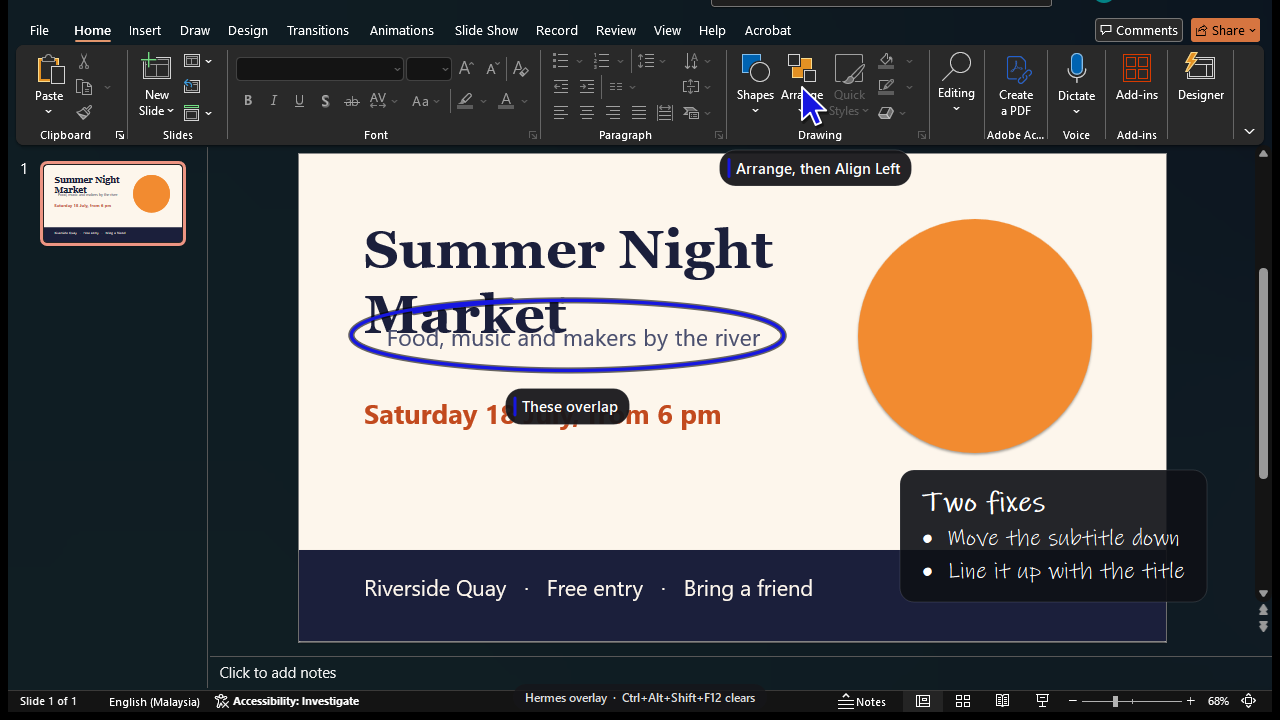
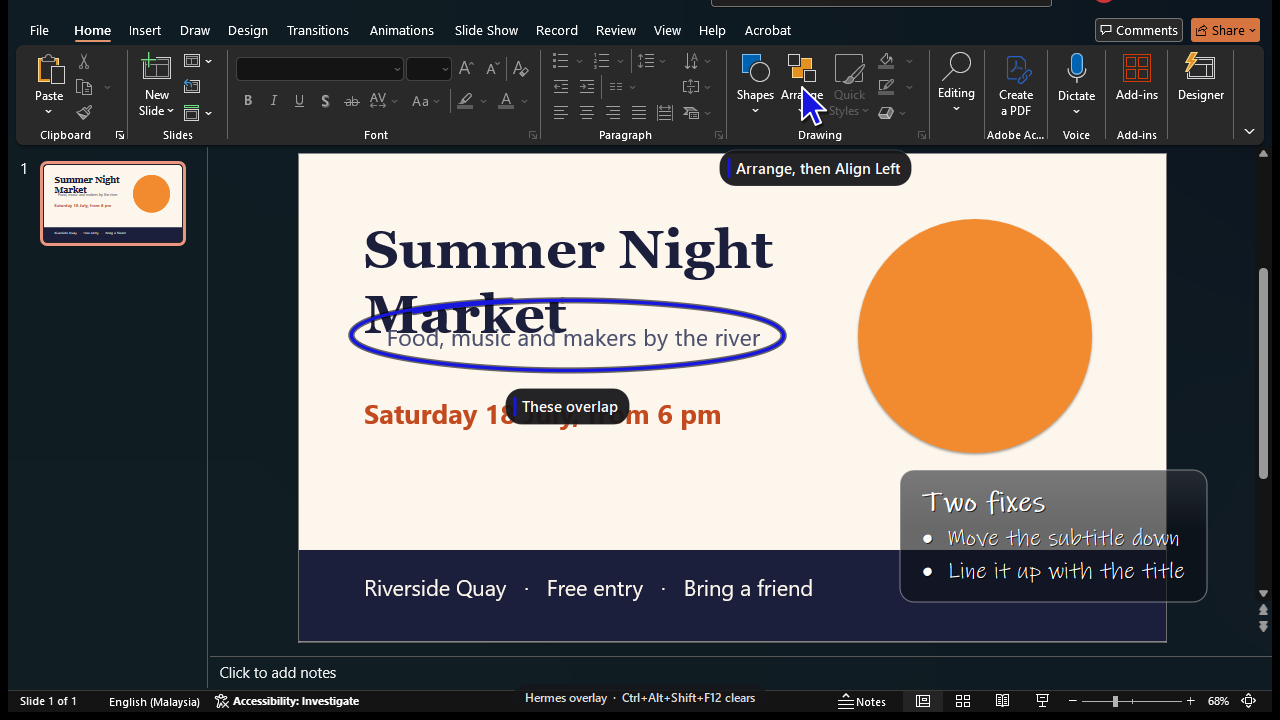
Screen Overlay 0.3.2: glass notes are see-through
The glass behind a note was nearly opaque. It is now see-through, with a
light edge and a faint sheen, so the work under a note stays visible. The
handwriting gets a soft shadow so it still reads over a bright page. Applies
to notes, flow diagrams and the notes that stay.

Changed region(s): [[0.6875, 0.6417, 0.9375, 0.7639]]

diff --git a/daemon/render.py b/daemon/render.py
@@ -12,6 +12,7 @@ from typing import Any
 
 from PySide6.QtCore import QPointF, QRectF, Qt, QTimer, QVariantAnimation
 from PySide6.QtGui import QColor, QFont, QFontMetricsF, QGuiApplication, QPainter, QPainterPath, QPen, QPolygonF
+from PySide6.QtGui import QLinearGradient
 from PySide6.QtWidgets import QWidget
 
 import shapes as S
@@ -26,8 +27,10 @@ DIM = QColor(0, 0, 0, 140)
 HALO = QColor(0, 0, 0, 150)
 PILL_BG = QColor(22, 22, 26, 240)
 TEXT = QColor(255, 255, 255)
-GLASS = QColor(14, 16, 22, 232)
-GLASS_EDGE = QColor(255, 255, 255, 30)
+GLASS = QColor(12, 14, 22, 156)  # see-through: what is under a note stays visible
+GLASS_EDGE = QColor(255, 255, 255, 96)
+GLASS_SHEEN = QColor(255, 255, 255, 26)
+INK_SHADOW = QColor(0, 0, 0, 170)  # keeps handwriting readable on glass over a bright page
 INK_FAMILIES = ["Ink Free", "Segoe Print", "Segoe UI"]  # the first two ship with Windows
 POINTER_SHAPE = ((0, 0), (0, 33), (8.2, 25.7), (13.6, 38), (19.1, 35.6), (13.8, 23.5), (24.2, 23.5))
 RIPPLE_S = 0.9
@@ -385,10 +388,17 @@ class Layer(QWidget):
             return
         if e["plate"]:
             p.setOpacity(fade * min(1.0, prog * e["dur"] / 0.16))
-            p.setPen(QPen(GLASS_EDGE, self.L(1)))
+            p.setPen(QPen(GLASS_EDGE, self.L(1.2)))
             p.setBrush(GLASS)
             rad = self.L(14 * e["s"])
-            p.drawRoundedRect(self.R(e["rect"]), rad, rad)
+            plate = self.R(e["rect"])
+            p.drawRoundedRect(plate, rad, rad)
+            sheen = QLinearGradient(plate.topLeft(), plate.bottomLeft())
+            sheen.setColorAt(0.0, GLASS_SHEEN)
+            sheen.setColorAt(0.45, QColor(255, 255, 255, 0))
+            p.setPen(Qt.NoPen)
+            p.setBrush(sheen)
+            p.drawRoundedRect(plate, rad, rad)
             p.setOpacity(fade)
         left = prog * e["dur"]
         for part in e["parts"]:
@@ -418,9 +428,14 @@ class Layer(QWidget):
         r = self.R((part["x"], part["y"], part["w"], part["h"]))
         p.save()
         p.setClipRect(QRectF(r.x() - self.L(4), r.y() - self.L(4), (r.width() + self.L(8)) * f, r.height() + self.L(8)))
-        p.setPen(QColor(e["color"]))
         p.setFont(_ink_font(part["px"] / self.dpr, part["bold"]))
-        p.drawText(r.adjusted(0, 0, self.L(200), 0), Qt.AlignLeft | Qt.AlignVCenter | Qt.TextDontClip, part["text"])
+        box = r.adjusted(0, 0, self.L(200), 0)
+        if e["plate"]:
+            d = self.L(1.2)
+            p.setPen(INK_SHADOW)
+            p.drawText(box.translated(d, d), Qt.AlignLeft | Qt.AlignVCenter | Qt.TextDontClip, part["text"])
+        p.setPen(QColor(e["color"]))
+        p.drawText(box, Qt.AlignLeft | Qt.AlignVCenter | Qt.TextDontClip, part["text"])
         p.restore()
 
     def _pointer(self, p: QPainter, ptr: dict) -> None:

diff --git a/daemon/sticky.py b/daemon/sticky.py
@@ -13,7 +13,8 @@ from __future__ import annotations
 from typing import Callable
 
 from PySide6.QtCore import QEvent, QPointF, QRectF, QSize, Qt
-from PySide6.QtGui import QColor, QFont, QFontDatabase, QFontMetricsF, QPainter, QPainterPath, QPen
+from PySide6.QtGui import (QColor, QFont, QFontDatabase, QFontMetricsF, QLinearGradient, QPainter, QPainterPath,
+                           QPen)
 from PySide6.QtWidgets import QPlainTextEdit, QWidget
 
 import shapes as S
@@ -23,10 +24,12 @@ W = 248.0
 PAD = 14.0
 HEAD = 30.0
 MIN_BODY = 64.0
-GLASS = QColor(14, 16, 22, 236)
-GLASS_EDGE = QColor(255, 255, 255, 34)
+GLASS = QColor(12, 14, 22, 156)  # see-through, like the glass notes `show` draws
+GLASS_EDGE = QColor(255, 255, 255, 96)
+GLASS_SHEEN = QColor(255, 255, 255, 26)
+SHADOW = QColor(0, 0, 0, 170)
 INK = QColor(255, 255, 255)
-SOFT = QColor(255, 255, 255, 170)
+SOFT = QColor(255, 255, 255, 215)
 INK_FAMILIES = ["Ink Free", "Segoe Print", "Segoe UI"]
 
 
@@ -118,8 +121,14 @@ class Sticky(QWidget):
         p.setRenderHint(QPainter.TextAntialiasing)
         tint = accent(self.d["color"])
         card = QRectF(self.rect()).adjusted(0.5, 0.5, -0.5, -0.5)
-        p.setPen(QPen(GLASS_EDGE, 1))
+        p.setPen(QPen(GLASS_EDGE, 1.2))
         p.setBrush(GLASS)
+        p.drawRoundedRect(card, 12, 12)
+        sheen = QLinearGradient(card.topLeft(), card.bottomLeft())
+        sheen.setColorAt(0.0, GLASS_SHEEN)
+        sheen.setColorAt(0.45, QColor(255, 255, 255, 0))
+        p.setPen(Qt.NoPen)
+        p.setBrush(sheen)
         p.drawRoundedRect(card, 12, 12)
         p.setPen(Qt.NoPen)
         p.setBrush(tint)
@@ -135,7 +144,11 @@ class Sticky(QWidget):
         if self.editing and self.d.get("title"):
             title = "Editing: Ctrl+Enter saves"
         title = QFontMetricsF(p.font()).elidedText(title, Qt.ElideRight, W - PAD - 60)
-        p.drawText(QRectF(PAD, 0, W - PAD - 60, HEAD), Qt.AlignLeft | Qt.AlignVCenter, title)
+        head = QRectF(PAD, 0, W - PAD - 60, HEAD)
+        p.setPen(SHADOW)
+        p.drawText(head.translated(1, 1), Qt.AlignLeft | Qt.AlignVCenter, title)
+        p.setPen(SOFT)
+        p.drawText(head, Qt.AlignLeft | Qt.AlignVCenter, title)
 
         for key, r in self._buttons().items():
             if self.hover == key:
@@ -160,8 +173,10 @@ class Sticky(QWidget):
             p.drawPath(path)
 
         if not self.editing:
-            p.setPen(INK)
             p.setFont(_body_font())
+            p.setPen(SHADOW)
+            p.drawText(self._body().translated(1.2, 1.2), Qt.TextWordWrap | Qt.AlignLeft | Qt.AlignTop, self.d["text"])
+            p.setPen(INK)
             p.drawText(self._body(), Qt.TextWordWrap | Qt.AlignLeft | Qt.AlignTop, self.d["text"])
         p.end()
 

diff --git a/client.py b/client.py
@@ -13,7 +13,7 @@ from pathlib import Path
 from typing import Any
 
 PLUGIN_NAME = "screen-overlay"
-DAEMON_VERSION = "0.3.1"  # must match daemon/main.py; an older running daemon is replaced
+DAEMON_VERSION = "0.3.2"  # must match daemon/main.py; an older running daemon is replaced
 DAEMON = Path(__file__).resolve().parent / "daemon" / "main.py"
 START_TIMEOUT_S = 20.0
 CREATE_NO_WINDOW = 0x08000000

diff --git a/daemon/main.py b/daemon/main.py
@@ -23,7 +23,7 @@ sys.path[:0] = [str(HERE), str(HERE.parent)]
 import shapes as S  # noqa: E402
 import winapi  # noqa: E402
 
-VERSION = "0.3.1"
+VERSION = "0.3.2"
 log = logging.getLogger("screen-overlay")
 
 

diff --git a/skills/screen-overlay/SKILL.md b/skills/screen-overlay/SKILL.md
@@ -47,7 +47,7 @@ Other inspect modes: `screens` (monitors, scaling), `windows` (visible apps), `e
 | `arrow` | arrow to the target; the tail is placed automatically, or set `from`. Add `text` for a caption at the tail. |
 | `label` | caption pill next to a target or at a point. |
 | `pointer` | a drawn pointer glides to the target and pulses. `text` appears when it lands. One at a time. |
-| `note` | handwritten note on dark glass that writes itself on. `text` up to 800 chars, optional `title`, lines starting `- ` become bullets. |
+| `note` | handwritten note on see-through glass that writes itself on. `text` up to 800 chars, optional `title`, lines starting `- ` become bullets. |
 | `ink` | hand-drawn `mark` on a target: `circle`, `underline`, `box`, `arrow`, `check`, `cross`. |
 | `flow` | small hand-drawn diagram: 2-6 `nodes` joined by arrows, `direction` right or down. |
 

diff --git a/README.md b/README.md
@@ -16,7 +16,8 @@ clicking.
   each step, the mark follows its window if it moves, and a step can wait for something that isn't on
   screen yet. Guides can be saved and replayed without asking the model again.
 - **Glass notes.** Handwritten notes, circles, underlines, arrows and small flow diagrams write
-  themselves on top of whatever you're doing, and you can click straight through them.
+  themselves on top of whatever you're doing. The glass is see-through, so your work stays visible
+  behind a note, and you can click straight through them.
 - **Notes you can keep.** A glass note can also stay: drag it anywhere, double-click to edit, close
   it with the ×. Hermes can read back what you wrote, so a note works as a small shared scratchpad.
   The tool calls these `sticky`; they stay until you close them.
